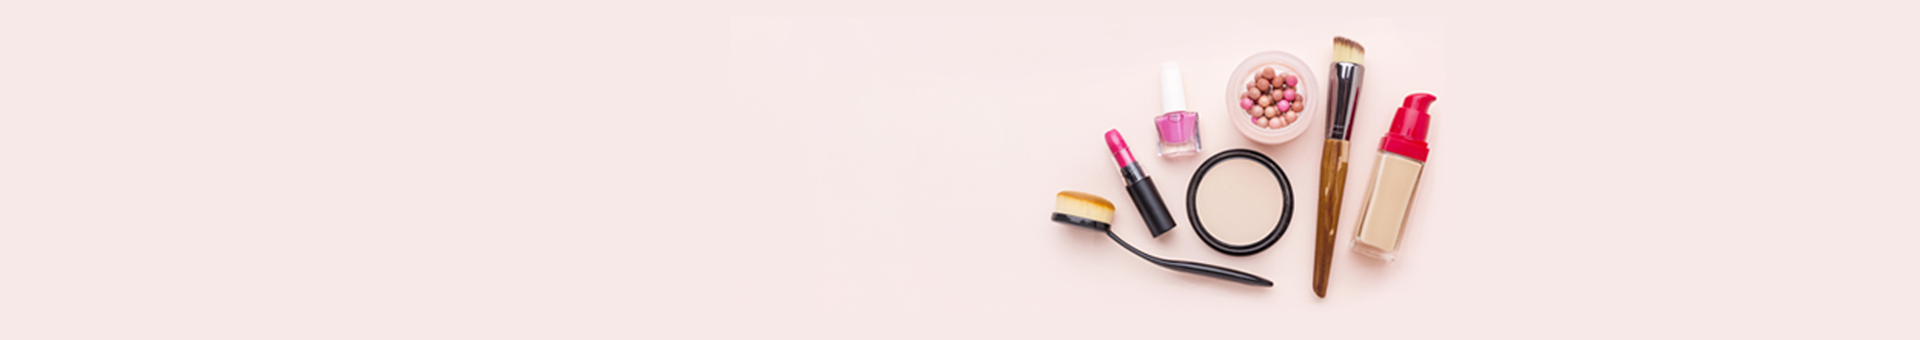
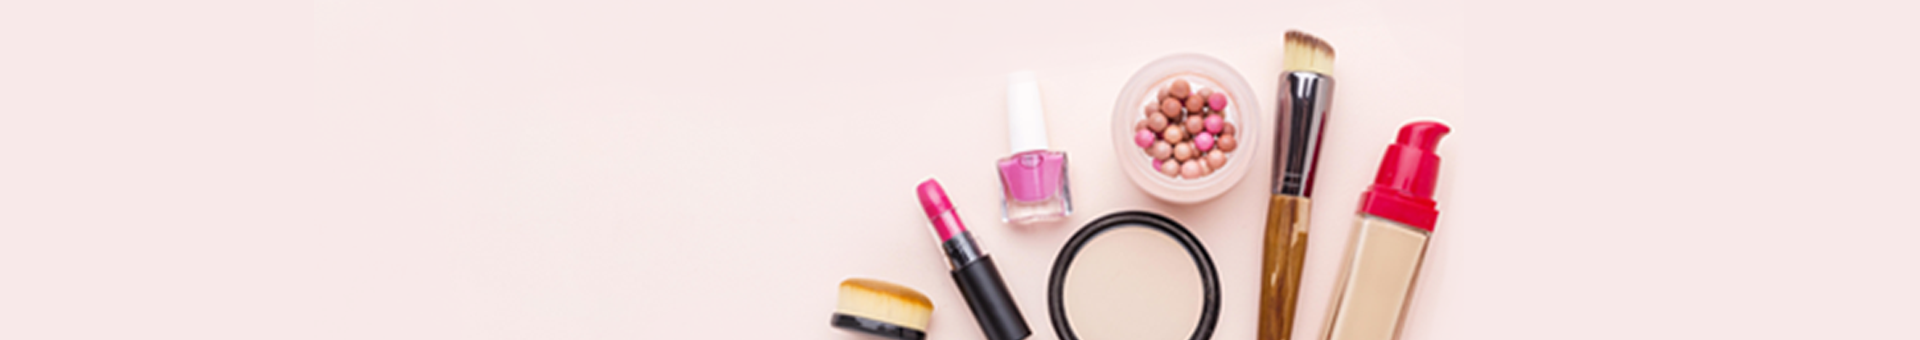
w_sub_face

Changed region(s): [[0.4062, 0.0882, 0.7812, 1.0]]

diff --git a/src/pages/face/index.tsx b/src/pages/face/index.tsx
@@ -1,12 +1,72 @@
 import Layout from "@/components/Layout";
-import Sub_visual from "@/components/Sub_visual";
+import ProductItem from "@/components/ProductItem";
+import SubVisual from "@/components/SubVisual";
 
 export default function Face() {
   return (
     <>
         <Layout>
         <div id="main">
-            <Sub_visual></Sub_visual>
+            <SubVisual></SubVisual>
+            <div className="container mt-[50px]">
+        <div className="w-full flex justify-between mb-[60px] text-[18px] text-[#656565]">
+          <button className="w-[230px] h-14 bg-[#ef426f] rounded-md text-[#ffffff]">Sunscreen</button>
+          <button className="w-[230px] h-14 rounded-md border border-[#dbdbdb]">Moisturizer</button>
+          <button className="w-[230px] h-14 rounded-md border border-[#dbdbdb]">Toner & Mist</button>
+          <button className="w-[230px] h-14 rounded-md border border-[#dbdbdb]">Masks</button>
+          <button className="w-[230px] h-14 rounded-md border border-[#dbdbdb]">Acne-Prone</button>
+        </div>
+        <div className="flex justify-between mb-10">
+          <select
+           name="" id="" 
+           className="border border-[#dbdbdb] h-12 w-[220px] px-4 appearance-none bg-[url('/dropdown_bg.png')] outline-none">
+            <option disabled selected>Brand Name</option>
+            <option value="">3CE (4)</option>
+            <option value="">3W Clinic (8)</option>
+          </select>
+          <select
+           name="" id="" 
+           className="text- border border-[#dbdbdb] h-12 w-[220px] px-4 appearance-none bg-[url('/dropdown_bg.png')] outline-none">
+            <option disabled selected>Brand Name</option>
+            <option value="">3CE (4)</option>
+          </select>
+        </div>
+        <div className="grid grid-cols-4 gap-x-5 gap-y-[30px]">
+          <ProductItem></ProductItem>
+          <ProductItem></ProductItem>
+          <ProductItem></ProductItem>
+          <ProductItem></ProductItem>
+          <ProductItem></ProductItem>
+          <ProductItem></ProductItem>
+          <ProductItem></ProductItem>
+          <ProductItem></ProductItem>
+          <ProductItem></ProductItem>
+          <ProductItem></ProductItem>
+          <ProductItem></ProductItem>
+          <ProductItem></ProductItem>
+        </div>
+        <div className="flex flex-row justify-center mt-20 mb-[70px]">
+          <div className="block w-[36px] h-[36px] bg-[url('/pagination_LL.png')] mr-[10px] cursor-pointer"></div>
+          <div className="block w-[36px] h-[36px] bg-[url('/pagination_L.png')] mr-[20px] cursor-pointer"></div>
+          <div className="flex items-center justify-center w-[36px] h-[36px] rounded-lg bg-[#ef4370] text-[#ffffff] mr-[10px]">
+            <a href="">1</a>
+          </div>
+          <div className="flex items-center justify-center w-[36px] h-[36px] rounded-lg mr-[10px]">
+            <a href="">2</a>
+          </div>
+          <div className="flex items-center justify-center w-[36px] h-[36px] rounded-lg mr-[10px]">
+            <a href="">3</a>
+          </div>
+          <div className="flex items-center justify-center w-[36px] h-[36px] rounded-lg mr-[10px]">
+            <a href="">4</a>
+          </div>
+          <div className="flex items-center justify-center w-[36px] h-[36px] rounded-lg">
+            <a href="">5</a>
+          </div>
+          <div className="block w-[36px] h-[36px] bg-[url('/pagination_R.png')] ml-[20px] cursor-pointer"></div>
+          <div className="block w-[36px] h-[36px] bg-[url('/pagination_RR.png')] ml-[10px] cursor-pointer"></div>
+        </div>
+      </div>
         </div>
         </Layout>
     </>

diff --git a/src/components/ProductItem.tsx b/src/components/ProductItem.tsx
@@ -1,0 +1,36 @@
+import "@/app/globals.css";
+
+function ProductItem({ }: any) {
+    return (
+        <>
+            <div className="font-Arial flex flex-col">
+                <div className="h-[294px] border border-[#dbdbdb] rounded-t-2xl relative">
+                    <img src="/product_img01.png" alt="" />
+                    <span className="flex items-center justify-center w-[50px] h-[30px] absolute bottom-[10px] left-3 bg-[#ffffff] text-[#fe3a40] rounded-[15px] text-[14px]">NEW</span>
+                    <span className="flex items-center justify-center w-[50px] h-[30px] absolute bottom-[50px] left-3 bg-[#fe3a40] text-[#ffffff] rounded-[15px] text-[14px]">SALE</span>
+                </div>
+                <div className="p-5 pb-10 border border-t-0 border-[#dbdbdb]">
+                    <p className="font-bold text-[18px]">Damage Care Perfect Serum Original (New) - 80ml</p>
+                    <p className="pt-2">
+                        <span className="line-through text-[#bbbbbb]">A$19.65</span>
+                        <span className="pl-[10px] text-[20px] font-bold">A$16.25</span>
+                        <span className="pl-[15px] text-[22px] text-[#fe3a40] font-bold">10%</span>
+                    </p>
+                    <div className="flex items-center pt-3">
+                        <div className="flex">
+                            <i className="block h-[18px] w-[18px] bg-[url('/product_star_ico.png')] mr-2"></i>
+                            <span className="mr-1 font-bold">4.7</span>
+                            <span className="text-[#999999]">(150)</span>
+                        </div>
+                        <div className="flex ml-[31px]">
+                            <i className="block mt-1 h-[14px] w-[17px] bg-[url('/product_heart_ico.png')] mr-2"></i>
+                            <span className="text-[#555555]">764</span>
+                        </div>
+                    </div>
+                </div>
+            </div>
+        </>
+    );
+}
+
+export default ProductItem;

diff --git a/src/components/SubVisual.tsx b/src/components/SubVisual.tsx
@@ -1,0 +1,22 @@
+import "@/app/globals.css";
+
+function SubVisual({ children }: any) {
+  return (
+    <>
+      {children}
+      <div className="w-full h-[340px] bg-[url('/sub_face/main_visual.png')]">
+        <div className="flex justify-center flex-col gap-5 h-full pl-[415px]">
+          <p className="text-black text-[32px] font-[700]">Face</p>
+          <div className="flex flex-row items-center gap-x-3">
+            <p className="text-[#757575]">Home</p>
+            <i className="block w-[9px] h-4 bg-[url('/sub_face/main_visual_arrow.png')]"></i>
+            <p className="text-[#757575]">Face</p>
+          </div>
+        </div>
+      </div>
+      
+    </>
+  );
+}
+
+export default SubVisual;

diff --git a/tailwind.config.ts b/tailwind.config.ts
@@ -16,7 +16,13 @@ const config: Config = {
       },
       fontFamily: {
         'NotoSansCJKkr': ['NotoSansCJKkr', 'sans-serif'],
-        'NotoSansKR': ['NotoSansKR'],
+        'Arial': ['Arial', 'sans-serif'],
+      },
+      container: {
+        center: true,
+        screens: {
+          '2xl': '1200px',
+        },
       },
       backgroundImage: {
         'gradient-radial': 'radial-gradient(var(--tw-gradient-stops))',

diff --git a/src/components/Layout.tsx b/src/components/Layout.tsx
@@ -6,7 +6,7 @@ import localFont from '@next/font/local'
 
 function Layout({ children }: any) {
   return (
-    <div>
+    <>
       <Head>
         <title>BrilleBeauty</title>
         <meta name="viewport" content="width=device-width, initial-scale=1.0" />
@@ -18,7 +18,7 @@ function Layout({ children }: any) {
       {children}
 
       <Footer />
-    </div>
+    </>
   );
 }
 

diff --git a/src/app/globals.css b/src/app/globals.css
@@ -105,7 +105,8 @@
 
 @layer base {
   html {
-    @apply font-NotoSansKR;
+    /* @apply font-NotoSansKR; */
+    font-family: 'Times New Roman', Times, serif;
   }
 }
 
@@ -116,7 +117,7 @@
 }
 
 body {
-  color: rgb(var(--foreground-rgb));
+  /* color: rgb(var(--foreground-rgb)); */
 }
 
 .custom-gap {
